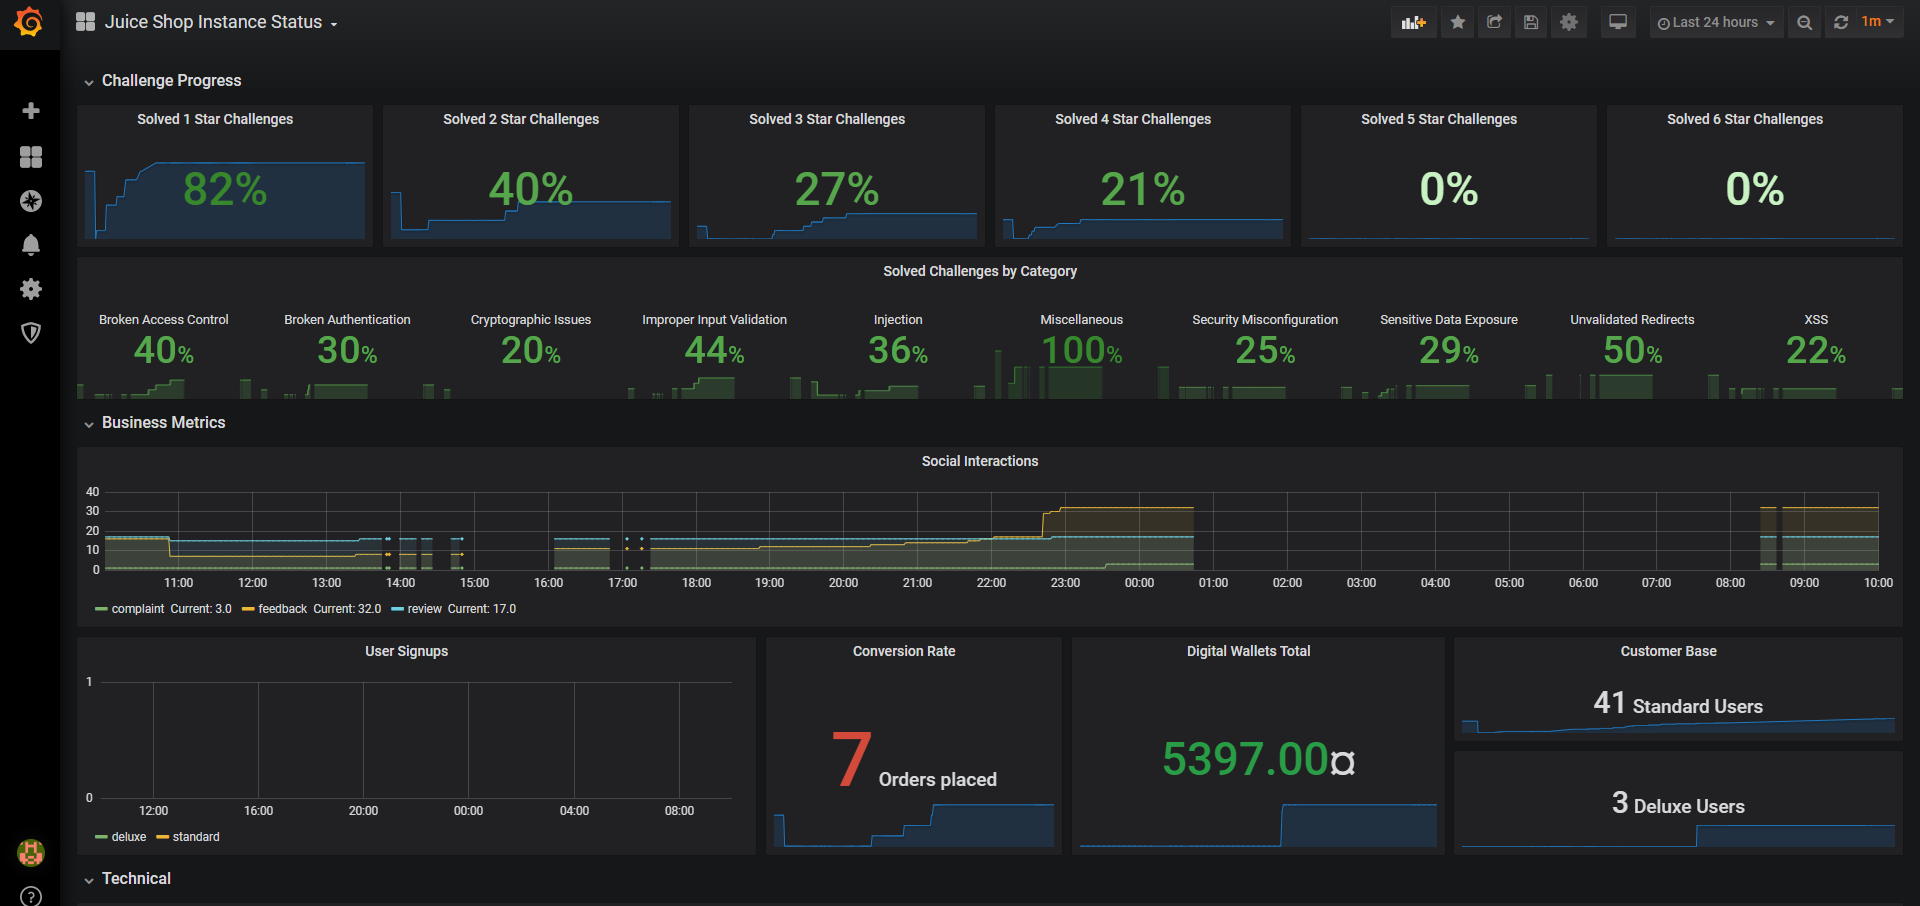
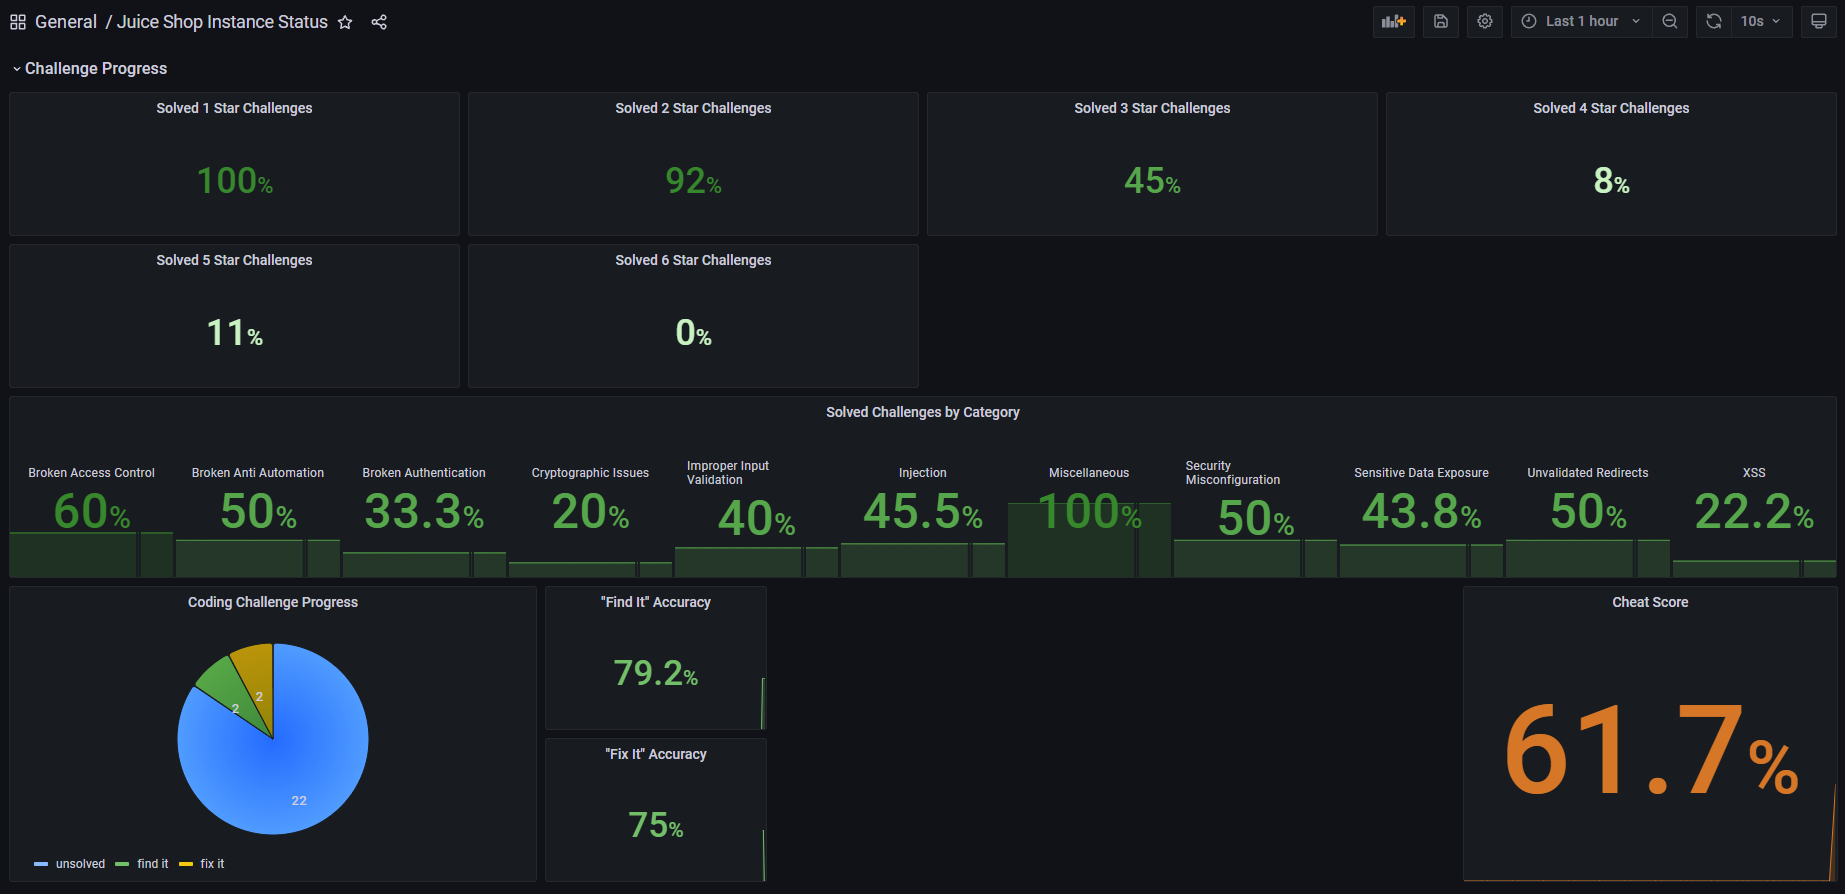
Update metrics and anti cheat sections to cover coding challenges

diff --git a/appendix/cheat-detection.md b/appendix/cheat-detection.md
@@ -44,7 +44,7 @@ To avoid false positive cheat scoring, the second of two coupled
 challenge solves will never count as cheating when they happen in
 sequence.
 
-### Trivial Challenges
+### Trivial challenges
 
 Some challenges are so frequently solved by accident or coincident, that
 it would be unfair to take them into account for cheat scoring at all.
@@ -55,6 +55,42 @@ This includes:
   challenges
 * reading the privacy policy of the shop, which is merely a challenge
   making fun of the fact that almost nobody reads those in real life
+
+## Coding challenges
+
+For coding challenges the cheat score is also calculated based on expected solving time
+since the previous solved hacking or coding challenge. As the difficulty of a hacking
+challenge does not necessarily correlate with its associated coding challenge, the
+cheat score formulas are based on different criteria.
+
+### "Find It" cheat score calculation
+
+The cheat score to find the vulnerable line(s) of code in the given code snippet
+is based on the length of that code snippet and the number of lines that need to
+be selected as the correct answer.
+
+| Snippet length | Minimum solve time | # vulnerable lines |
+|:---------------------|:-------------------|:----------|
+| up to 1000 characters                    | 1 minutes          | ×#    | 
+| up to 2000 characters                  | 2 minutes          | ×#    | 
+| up to 3000 characters                 | 3 minutes          | ×#    | 
+| up to 4000 characters               | 4 minutes          | ×#    | 
+| etc.              |          |    | 
+
+### "Fix It" cheat score calculation
+
+The cheat score to detect the right fix for an identified vulnerability depends
+only on the number of provided fix choices.
+
+| Provided choices | Minimum solve time | 
+|:---------------------|:-------------------|
+| 3                  | 1 minute  | 
+| 4                 | 2 minutes  | 
+| 5               | 2 minutes  | 
+| 6               | 3 minutes  |
+
+Please note that Juice Shop does not allow coding challenges with less than 3 fix options
+to choose from.
 
 ## Total cheat score
 
@@ -69,9 +105,7 @@ restarts, but its calculation is also not irritated by
 or
 [manual restoring of hacking progress](../part1/challenges.md#manual-progress-and-settings-backup).
 
-After the individual challenge cheat scores from the screenshot at the
-beginning of this chapter, you would get the `totalCheatScore` metric
-seen below:
+An example of the `totalCheatScore` metric can be seen below:
 
 ```yaml
 # HELP juiceshop_cheat_score Overall probability that any challenges were solved by cheating.
@@ -81,7 +115,8 @@ juiceshop_cheat_score{app="juiceshop"} 0.49485416666666665
 
 The following values for `totalCheatScore` were measured during
 activities that are
-[definitely considered cheating](../part1/rules.md#-things-considered-cheating):
+[definitely considered cheating](../part1/rules.md#-things-considered-cheating) while
+solving the available hacking challenges:
 
 * \>93% on final webhook call when executing all
   [Integration tests](../part3/contribution.md#integration-tests) in <1

diff --git a/appendix/monitoring.md b/appendix/monitoring.md
@@ -3,7 +3,9 @@
 You can monitor your local or cloud-hosted OWASP Juice Shop instance
 using internally gathered metrics and visualize those on dashboards.
 
-![Challenge and business metrics in Grafana](img/grafana_01.png)
+![Challenge metrics in Grafana](img/grafana_01.png)
+
+![Business metrics in Grafana](img/grafana_03.png)
 
 ![Technical metrics in Grafana](img/grafana_02.png)
 
